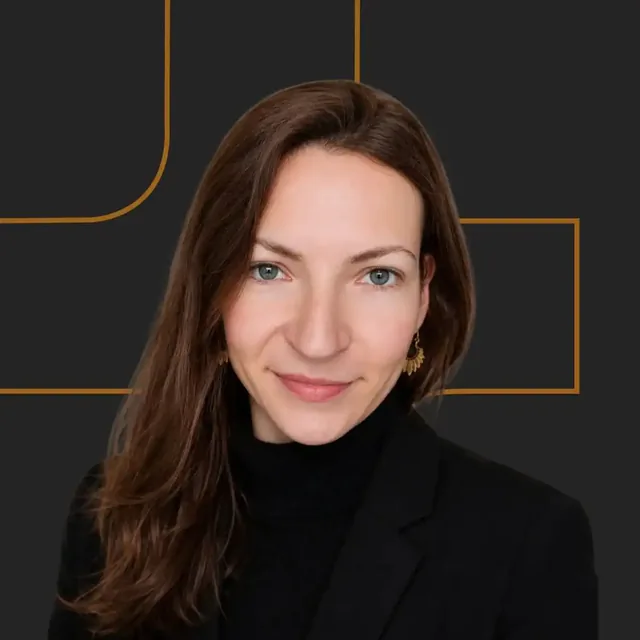
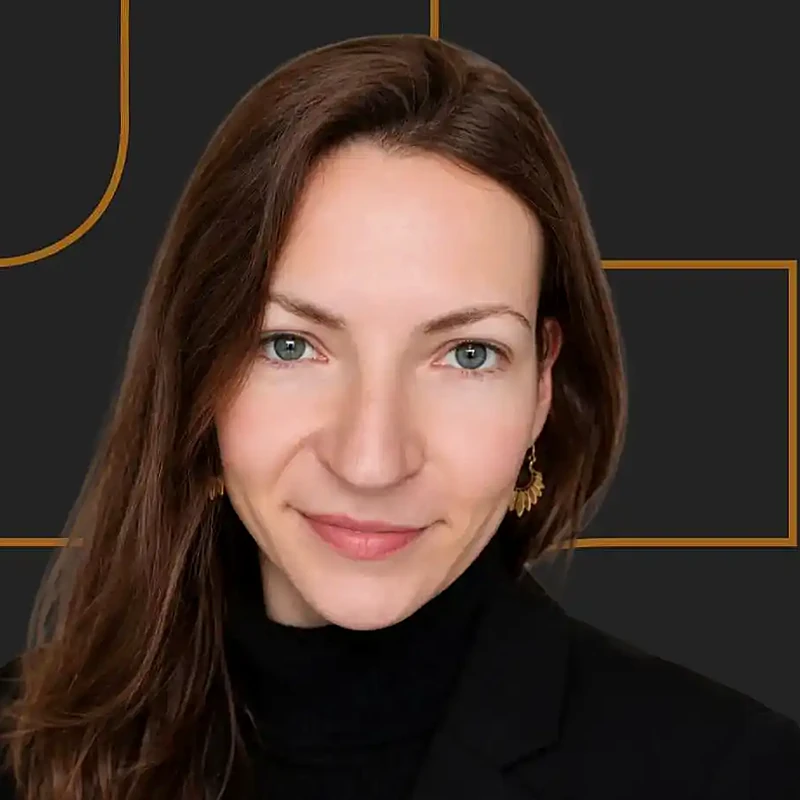
Přednášející: na 1. webináři Anna a Monika, všichni lektoři dole na přehledu; fotky oříznuté a doostřené
Claude-Session: https://claude.ai/code/session_018XGbuxwiATdnxrSYqihVxu

diff --git a/sablona/webinar.html b/sablona/webinar.html
@@ -38,10 +38,7 @@
     "organizer": { "@type": "Organization", "name": "Za bohatší Česko", "url": "https://zabohatsicesko.cz" },
     "performer": [
       { "@type": "Person", "name": "Anna Němcová", "jobTitle": "Relationship Manager" },
-      { "@type": "Person", "name": "Honza Kűhtreiber", "jobTitle": "Relationship Manager" },
-      { "@type": "Person", "name": "Monika Koubková", "jobTitle": "Relationship Manager" },
-      { "@type": "Person", "name": "Martin Nový", "jobTitle": "Finanční poradce" },
-      { "@type": "Person", "name": "Tereza Lukešová", "jobTitle": "Finanční poradce" }
+      { "@type": "Person", "name": "Monika Koubková", "jobTitle": "Relationship Manager" }
     ]
   }
   </script>
@@ -70,15 +67,12 @@
             <li><svg viewBox="0 0 24 24" fill="none" stroke="currentColor" stroke-width="1.8" aria-hidden="true"><circle cx="12" cy="12" r="9"/><path d="M12 7v5l3 2"/></svg>18:00–19:00</li>
             <li><svg viewBox="0 0 24 24" fill="none" stroke="currentColor" stroke-width="1.8" aria-hidden="true"><rect x="3" y="4" width="18" height="13" rx="2"/><path d="M8 21h8M12 17v4"/></svg>Online · 60&nbsp;minut</li>
           </ul>
-          <div class="avatary" aria-label="Webinářem vás provedou Anna, Honza, Monika, Martin a Tereza">
+          <div class="avatary" aria-label="Webinářem vás provedou Anna Němcová a Monika Koubková">
             <div class="avatary__fotky" aria-hidden="true">
               <img src="../assets/lide/anna-nemcova.webp" alt="" width="44" height="44">
-              <img src="../assets/lide/honza-kuhtreiber.webp" alt="" width="44" height="44">
               <img src="../assets/lide/monika-koubkova.webp" alt="" width="44" height="44">
-              <img src="../assets/lide/martin-novy.webp" alt="" width="44" height="44">
-              <img src="../assets/lide/tereza-lukesova.webp" alt="" width="44" height="44">
             </div>
-            <p>Provedou vás <a href="#lide-nadpis">Anna, Honza, Monika, Martin a&nbsp;Tereza</a></p>
+            <p>Provedou vás <a href="#lide-nadpis">Anna Němcová a&nbsp;Monika Koubková</a></p>
           </div>
           <div class="akce" data-pro-stav="nadchazejici">
             <a class="tlacitko" href="#registrace">Chci se registrovat</a>
@@ -134,34 +128,19 @@
     </section>
 
     <!-- PŘEDNÁŠEJÍCÍ – u dalšího webináře upravit seznam, nebo celou sekci smazat (i s avatary v úvodu a „performer“ ve schema.org) -->
-    <section class="sekce lide" aria-labelledby="lide-nadpis">
+    <section class="sekce lide lide--dva" aria-labelledby="lide-nadpis">
       <div class="obal">
         <div class="sekce__hlava"><h2 id="lide-nadpis">Kdo vás webinářem provede</h2></div>
-        <ul class="lide__seznam">
+        <ul class="lide__seznam lide__seznam--dva">
           <li class="osoba">
-            <img src="../assets/lide/anna-nemcova.webp" alt="Anna Němcová" width="640" height="640" loading="lazy" decoding="async">
+            <img src="../assets/lide/anna-nemcova.webp" alt="Anna Němcová" width="800" height="800" loading="lazy" decoding="async">
             <h3>Anna Němcová</h3>
             <p>Relationship Manager</p>
           </li>
           <li class="osoba">
-            <img src="../assets/lide/honza-kuhtreiber.webp" alt="Honza Kűhtreiber" width="640" height="640" loading="lazy" decoding="async">
-            <h3>Honza Kűhtreiber</h3>
-            <p>Relationship Manager</p>
-          </li>
-          <li class="osoba">
-            <img src="../assets/lide/monika-koubkova.webp" alt="Monika Koubková" width="640" height="640" loading="lazy" decoding="async">
+            <img src="../assets/lide/monika-koubkova.webp" alt="Monika Koubková" width="800" height="800" loading="lazy" decoding="async">
             <h3>Monika Koubková</h3>
             <p>Relationship Manager</p>
-          </li>
-          <li class="osoba">
-            <img src="../assets/lide/martin-novy.webp" alt="Martin Nový" width="640" height="640" loading="lazy" decoding="async">
-            <h3>Martin Nový</h3>
-            <p>Finanční poradce</p>
-          </li>
-          <li class="osoba">
-            <img src="../assets/lide/tereza-lukesova.webp" alt="Tereza Lukešová" width="640" height="640" loading="lazy" decoding="async">
-            <h3>Tereza Lukešová</h3>
-            <p>Finanční poradce</p>
           </li>
         </ul>
       </div>

diff --git a/web/proc-sledovat-vydaje/index.html b/web/proc-sledovat-vydaje/index.html
@@ -38,10 +38,7 @@
     "organizer": { "@type": "Organization", "name": "Za bohatší Česko", "url": "https://zabohatsicesko.cz" },
     "performer": [
       { "@type": "Person", "name": "Anna Němcová", "jobTitle": "Relationship Manager" },
-      { "@type": "Person", "name": "Honza Kűhtreiber", "jobTitle": "Relationship Manager" },
-      { "@type": "Person", "name": "Monika Koubková", "jobTitle": "Relationship Manager" },
-      { "@type": "Person", "name": "Martin Nový", "jobTitle": "Finanční poradce" },
-      { "@type": "Person", "name": "Tereza Lukešová", "jobTitle": "Finanční poradce" }
+      { "@type": "Person", "name": "Monika Koubková", "jobTitle": "Relationship Manager" }
     ]
   }
   </script>
@@ -70,15 +67,12 @@
             <li><svg viewBox="0 0 24 24" fill="none" stroke="currentColor" stroke-width="1.8" aria-hidden="true"><circle cx="12" cy="12" r="9"/><path d="M12 7v5l3 2"/></svg>18:00–19:00</li>
             <li><svg viewBox="0 0 24 24" fill="none" stroke="currentColor" stroke-width="1.8" aria-hidden="true"><rect x="3" y="4" width="18" height="13" rx="2"/><path d="M8 21h8M12 17v4"/></svg>Online · 60&nbsp;minut</li>
           </ul>
-          <div class="avatary" aria-label="Webinářem vás provedou Anna, Honza, Monika, Martin a Tereza">
+          <div class="avatary" aria-label="Webinářem vás provedou Anna Němcová a Monika Koubková">
             <div class="avatary__fotky" aria-hidden="true">
               <img src="../assets/lide/anna-nemcova.webp" alt="" width="44" height="44">
-              <img src="../assets/lide/honza-kuhtreiber.webp" alt="" width="44" height="44">
               <img src="../assets/lide/monika-koubkova.webp" alt="" width="44" height="44">
-              <img src="../assets/lide/martin-novy.webp" alt="" width="44" height="44">
-              <img src="../assets/lide/tereza-lukesova.webp" alt="" width="44" height="44">
             </div>
-            <p>Provedou vás <a href="#lide-nadpis">Anna, Honza, Monika, Martin a&nbsp;Tereza</a></p>
+            <p>Provedou vás <a href="#lide-nadpis">Anna Němcová a&nbsp;Monika Koubková</a></p>
           </div>
           <div class="akce" data-pro-stav="nadchazejici">
             <a class="tlacitko" href="#registrace">Chci se registrovat</a>
@@ -134,34 +128,19 @@
     </section>
 
     <!-- PŘEDNÁŠEJÍCÍ – u dalšího webináře upravit seznam, nebo celou sekci smazat (i s avatary v úvodu a „performer“ ve schema.org) -->
-    <section class="sekce lide" aria-labelledby="lide-nadpis">
+    <section class="sekce lide lide--dva" aria-labelledby="lide-nadpis">
       <div class="obal">
         <div class="sekce__hlava"><h2 id="lide-nadpis">Kdo vás webinářem provede</h2></div>
-        <ul class="lide__seznam">
+        <ul class="lide__seznam lide__seznam--dva">
           <li class="osoba">
-            <img src="../assets/lide/anna-nemcova.webp" alt="Anna Němcová" width="640" height="640" loading="lazy" decoding="async">
+            <img src="../assets/lide/anna-nemcova.webp" alt="Anna Němcová" width="800" height="800" loading="lazy" decoding="async">
             <h3>Anna Němcová</h3>
             <p>Relationship Manager</p>
           </li>
           <li class="osoba">
-            <img src="../assets/lide/honza-kuhtreiber.webp" alt="Honza Kűhtreiber" width="640" height="640" loading="lazy" decoding="async">
-            <h3>Honza Kűhtreiber</h3>
-            <p>Relationship Manager</p>
-          </li>
-          <li class="osoba">
-            <img src="../assets/lide/monika-koubkova.webp" alt="Monika Koubková" width="640" height="640" loading="lazy" decoding="async">
+            <img src="../assets/lide/monika-koubkova.webp" alt="Monika Koubková" width="800" height="800" loading="lazy" decoding="async">
             <h3>Monika Koubková</h3>
             <p>Relationship Manager</p>
-          </li>
-          <li class="osoba">
-            <img src="../assets/lide/martin-novy.webp" alt="Martin Nový" width="640" height="640" loading="lazy" decoding="async">
-            <h3>Martin Nový</h3>
-            <p>Finanční poradce</p>
-          </li>
-          <li class="osoba">
-            <img src="../assets/lide/tereza-lukesova.webp" alt="Tereza Lukešová" width="640" height="640" loading="lazy" decoding="async">
-            <h3>Tereza Lukešová</h3>
-            <p>Finanční poradce</p>
           </li>
         </ul>
       </div>

diff --git a/web/index.html b/web/index.html
@@ -67,6 +67,39 @@
         <p class="prazdne" id="prazdne-probehle">Zatím tu není žádný proběhlý webinář.</p>
       </div>
     </section>
+    <!-- LEKTOŘI SÉRIE – všichni, kdo webináře vedou (jména a pozice podle zabohatsicesko.cz/nas-tym) -->
+    <section class="sekce lide" aria-labelledby="lide-nadpis">
+      <div class="obal">
+        <div class="sekce__hlava"><h2 id="lide-nadpis">Kdo webináře vede</h2></div>
+        <ul class="lide__seznam">
+          <li class="osoba">
+            <img src="assets/lide/anna-nemcova.webp" alt="Anna Němcová" width="800" height="800" loading="lazy" decoding="async">
+            <h3>Anna Němcová</h3>
+            <p>Relationship Manager</p>
+          </li>
+          <li class="osoba">
+            <img src="assets/lide/honza-kuhtreiber.webp" alt="Honza Kűhtreiber" width="800" height="800" loading="lazy" decoding="async">
+            <h3>Honza Kűhtreiber</h3>
+            <p>Relationship Manager</p>
+          </li>
+          <li class="osoba">
+            <img src="assets/lide/monika-koubkova.webp" alt="Monika Koubková" width="800" height="800" loading="lazy" decoding="async">
+            <h3>Monika Koubková</h3>
+            <p>Relationship Manager</p>
+          </li>
+          <li class="osoba">
+            <img src="assets/lide/martin-novy.webp" alt="Martin Nový" width="800" height="800" loading="lazy" decoding="async">
+            <h3>Martin Nový</h3>
+            <p>Finanční poradce</p>
+          </li>
+          <li class="osoba">
+            <img src="assets/lide/tereza-lukesova.webp" alt="Tereza Lukešová" width="800" height="800" loading="lazy" decoding="async">
+            <h3>Tereza Lukešová</h3>
+            <p>Finanční poradce</p>
+          </li>
+        </ul>
+      </div>
+    </section>
   </main>
 
   <footer class="paticka">

diff --git a/web/assets/styl.css b/web/assets/styl.css
@@ -181,6 +181,15 @@ h3 { font-size: clamp(22px, 2.4vw, 26px); line-height: 1.2; }
 .osoba h3 { font-size: clamp(20px, 2vw, 23px); margin: 16px 0 4px; }
 .osoba p { margin: 0; font-size: 14px; font-weight: 700; letter-spacing: .08em; text-transform: uppercase; color: var(--gold); }
 
+/* Dva přednášející: na počítači nadpis vlevo, fotky vpravo */
+@media (min-width: 900px) {
+  .lide--dva .obal { display: grid; grid-template-columns: 1fr 1.5fr; gap: 72px; align-items: start; }
+  .lide--dva .sekce__hlava { margin-bottom: 0; }
+}
+.lide__seznam--dva { grid-template-columns: repeat(2, minmax(0, 1fr)) !important; max-width: 680px; gap: 24px 20px; }
+@media (min-width: 640px) { .lide__seznam--dva { gap: 36px 32px; } }
+.lide__seznam--dva .osoba h3 { font-size: clamp(22px, 2.4vw, 28px); }
+
 .avatary { display: flex; align-items: center; flex-wrap: wrap; gap: 10px 14px; margin-top: 26px; }
 .avatary__fotky { display: flex; }
 .avatary__fotky img {

diff --git a/AGENTS.md b/AGENTS.md
@@ -47,7 +47,7 @@ Kontrola: přidej na konec adresy `?nahled-stavu=nadchazejici|probiha|probehl`.
 1. Zkopíruj `sablona/webinar.html` → `web/[slug]/index.html` (slug krátký, bez diakritiky).
 2. Vyměň všechny údaje (název, termín, `data-zacatek/konec`, texty, skryté pole `webinar`, meta, schema.org, název .ics).
 3. Vytvoř `web/[slug]/webinar.ics` podle vzoru (časy v UTC).
-4. Přednášející: uprav sekci „Kdo vás webinářem provede“, avatary v úvodu a `performer` ve schema.org (fotky 640 × 640 WebP do `web/assets/lide/`, jména a pozice podle zabohatsicesko.cz/nas-tym). Když přednášející nejsou známí, všechna tři místa smaž.
+4. Přednášející: uprav sekci „Kdo vás webinářem provede“, avatary v úvodu a `performer` ve schema.org (fotky 800 × 800 WebP do `web/assets/lide/`, oříznuté tak, aby nebyla vidět useknutá ramena, jemně doostřené; pro 2 lidi třída `lide__seznam--dva`, jména a pozice podle zabohatsicesko.cz/nas-tym). Když přednášející nejsou známí, všechna tři místa smaž.
 5. Přidej kartu do `web/index.html`.
 6. Stránky a adresy proběhlých webinářů neměň, kromě doplnění odkazu na záznam/materiály.
 
